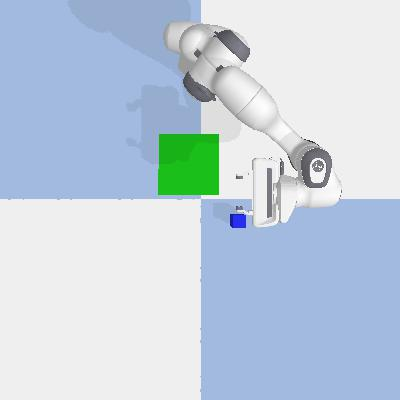
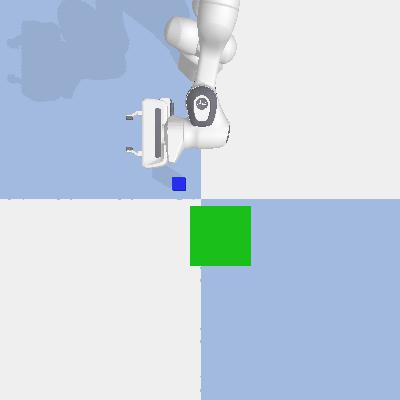
cleaned code and added demonstration mode

Changed region(s): [[0.3, 0.0, 0.84, 0.69], [0.57, 0.0, 0.6, 0.03]]

diff --git a/pybullet_hello/myRobotCell.py b/pybullet_hello/myRobotCell.py
@@ -50,6 +50,39 @@ def get_save_action_path(save_path, action):
     return save_path
 
 
+def set_dynamics_of_objects(list_ids):
+    for rigid_obj_id in list_ids:
+        p.changeDynamics(bodyUniqueId=rigid_obj_id,
+                         linkIndex=-1,
+                         mass=1.1,  # this mass works with the box_example.urdf but doesnt with other boxes
+                         lateralFriction=0.3,
+                         spinningFriction=0.003,
+                         rollingFriction=0.003,
+                         restitution=0.0,
+                         linearDamping=0.0,
+                         angularDamping=0.0,
+                         contactStiffness=-1,
+                         contactDamping=-1)
+    return None
+
+
+def set_fingertips_friction(body_id, link_indexes):
+
+    for finger_id in link_indexes:
+        p.changeDynamics(bodyUniqueId=body_id,
+                         linkIndex=finger_id,
+                         mass=1.1,  # this mass works with the box_example.urdf but doesnt with other boxes
+                         lateralFriction=sys.maxsize,
+                         spinningFriction=sys.maxsize,
+                         rollingFriction=sys.maxsize,
+                         restitution=0.0,
+                         linearDamping=0.0,
+                         angularDamping=0.0,
+                         contactStiffness=-1,
+                         contactDamping=-1)
+    return None
+
+
 class RobotCell:
     def __init__(self, grasp_loc, rel_loc, n_steps_taken, start_tcp_pos, dt=0.01):
 
@@ -61,28 +94,21 @@ class RobotCell:
         # TODO: load the table and make sure that cameras are in proper positions
         self.rel_loc = (rel_loc[0], rel_loc[1], 0.001)  # Place Location
         p.loadURDF("plane.urdf")
-        p.loadURDF(os.getcwd() + "/generated_urdfs/Rectangle.urdf", self.rel_loc,
+
+
+        self.mat_id = p.loadURDF(os.getcwd() + "/generated_urdfs/Rectangle.urdf", self.rel_loc,
                    p.getQuaternionFromEuler((0, 0, np.pi / 2)),
                    useFixedBase=False)
+
         self.cube_position = grasp_loc
         self.cube_id = p.loadURDF(os.getcwd()+"/generated_urdfs/box_example.urdf", self.cube_position, p.getQuaternionFromEuler((0, 0, 0)))
 
+        set_dynamics_of_objects([self.mat_id, self.cube_id])
 
         """
         different boxes have different behaviour
         maybe when we change shape of the box we should also change mass?
         """
-        p.changeDynamics(bodyUniqueId=self.cube_id,
-                         linkIndex=-1,
-                         mass=1.1,  # this mass works with the box_example.urdf but doesnt with other boxes
-                         lateralFriction=sys.maxsize,
-                         spinningFriction=sys.maxsize,
-                         rollingFriction=sys.maxsize,
-                         restitution=0.0,
-                         linearDamping=0.0,
-                         angularDamping=0.0,
-                         contactStiffness=sys.maxsize,
-                         contactDamping=sys.maxsize)
 
         self.n_actions_taken = n_steps_taken
         self.rid = p.loadURDF(
@@ -90,7 +116,9 @@ class RobotCell:
             (0, -0.55, 0), p.getQuaternionFromEuler((0, 0, np.pi / 2)),
             useFixedBase=True
         )
+        set_fingertips_friction(body_id=self.rid, link_indexes=[10, 11])
 
+        # self.q_target[-1] = self.q_target[-2]
         print("self.rid ", self.rid)
         print("p.getNumJoints(self.rid) ", p.getNumJoints(self.rid))
 
@@ -149,10 +177,9 @@ class RobotCell:
         )[2:]
         return img[..., :3]
 
-    def take_top_image(self, res=224, fov=8):
-        view_matrix = p.computeViewMatrix((0, 0, 2), (0, 0, 0), (0, -1, 0))
-        projection_matrix = p.computeProjectionMatrixFOV(fov, 1, 0.01, 10)
-        return self.take_image(res, view_matrix, projection_matrix)
+    def take_top_image(self):
+        return self.take_image(view_matrix=p.computeViewMatrix((0, 0, 2), (0, 0, 0), (0, -1, 0)),
+                                      projection_matrix=p.computeProjectionMatrixFOV(45, 1, 0.01, 10))
 
     def top_px_to_world(self, x, y, z=0.01, res=224, fov=8):
         depth = 2 - z
@@ -221,10 +248,10 @@ class RobotCell:
             if action == 'g':  # grasp
                 # pos_next = pos_now
                 # pos_next[2] = z_grasp
-                img_action = self.attempt_grasp(xy=(pos_now[0], pos_now[1]), theta=0, z_grasp=z_grasp, z_up=z_up, record=True, save=True)
+                img_action = self.attempt_grasp(xy=(pos_now[0], pos_now[1]), theta=0, z_grasp=z_grasp, z_up=z_up, save=True)
 
             if action == 'r':  # release
-                img_action = self.attempt_release(xy=(pos_now[0], pos_now[1]), theta=0, z_grasp=z_grasp, z_up=z_up, record=True, save=True)
+                img_action = self.attempt_release(xy=(pos_now[0], pos_now[1]), theta=0, z_grasp=z_grasp, z_up=z_up, save=True)
 
         self.n_actions_taken += 1
         return img_action
@@ -259,17 +286,17 @@ class RobotCell:
                 pos_next = pos_now + [-step_d, 0, 0]
                 pos_next[2] = z_up
             """ SAVE """
-            img_action = self.move(pos=np.array(pos_next), save=True)
+            img_action = self.move(pos=np.array(pos_next), save=False)
 
         """ Gripper actions """
         if action in gripper_actions:
             if action == 'g':  # grasp
                 # pos_next = pos_now
                 # pos_next[2] = z_grasp
-                img_action = self.attempt_grasp(xy=(pos_now[0], pos_now[1]), theta=0, z_grasp=z_grasp, z_up=z_up, record=True, save=True)
+                img_action = self.attempt_grasp(xy=(pos_now[0], pos_now[1]), theta=0, z_grasp=z_grasp, z_up=z_up, save=True)
 
             if action == 'r':  # release
-                img_action = self.attempt_release(xy=(pos_now[0], pos_now[1]), theta=0, z_grasp=z_grasp, z_up=z_up, record=True, save=True)
+                img_action = self.attempt_release(xy=(pos_now[0], pos_now[1]), theta=0, z_grasp=z_grasp, z_up=z_up, save=True)
 
         """ save image to dir """
         # import matplotlib
@@ -284,10 +311,9 @@ class RobotCell:
         # im.save("your_file.jpeg")
         self.n_actions_taken += 1
 
-    def move(self, pos, theta=0., speed=1.2, acc=5., instant=False, record=False, save=False):
+    def move(self, pos, theta=0., speed=1.2, acc=5., instant=False, save=False):
         # take image before executing an action!
-        img_start = self.take_image(view_matrix=p.computeViewMatrix((0, 0, 2), (0, 0, 0), (0, -1, 0)),
-                                  projection_matrix=p.computeProjectionMatrixFOV(45, 1, 0.01, 10))
+        img_start = self.take_top_image()
 
         world_t_tool_desired = Transform(p=pos, rpy=(0, np.pi / 2, 0 + theta))
         if instant:
@@ -301,72 +327,61 @@ class RobotCell:
                 world_t_tool_target = world_t_tool_start @ (tool_start_t_tool_desired * s)
                 self.set_q_target(self.ik(world_t_tool_target))
                 p.stepSimulation()
-                # if record and i % 4 == 0:  # fps = 1/dt / 4
-                #     img_start = self.take_image()
-                # #     # images.append(self.take_image())
+                if save and i % 4 == 0:  # fps = 1/dt / 4
+                    self.take_top_image()
+                    # img_start = self.take_image()
+                #     # images.append(self.take_image())
 
             if save:
                 return img_start
             else:
                 return None
 
-    def gripper_move(self, d_desired, record=False, speed=1., acc=3., save=False):
+    def gripper_move(self, d_desired, save=False, speed=1., acc=3.):
         d_start = self.q_target[-1]
         move = d_desired - d_start
-        images = []
-        states_l = []
         for i, s in enumerate(lerp(abs(move), speed, acc, self.dt)):
             self.q_target[-1] = self.q_target[-2] = d_start + s * move
             self.set_q_target(self.q_target)
             p.stepSimulation()
-            if record and i % 4 == 0:
-                images.append(self.take_image())
-                if save:
-                    cube_pos, cube_orn = p.getBasePositionAndOrientation(self.cube_id)
-                    states_l.append(
-                        State(qs=self.q_target, q_dots=None, cube_pos=cube_pos, cube_orient=cube_orn, keypoint=None))
+            if save and i % 4 == 0:
+                self.take_top_image()
+        return None
 
-        if save:
-            return states_l
-        else:
-            return None
+    def gripper_close(self, save=False):
+        return self.gripper_move(0.0, save)
 
-    def gripper_close(self, record=False, save=False):
-        return self.gripper_move(0.0, record, save=save)
+    def gripper_open(self, save=False):
+        return self.gripper_move(0.1, save)
 
-    def gripper_open(self, record=False, save=False):
-        return self.gripper_move(0.1, record, save=save)
-
-    def attempt_grasp(self, xy, z_grasp, z_up, theta=0, record=False, save=False):
-        # self.q_target[-1] = self.q_target[-2] = 0.03
-        self.gripper_open(record=record, save=False)
+    def attempt_grasp(self, xy, z_grasp, z_up, theta=0, save=False):
+        self.gripper_open(save=save)
 
         """ taking picture before an action """
         if save:
-            img_start = self.take_image(view_matrix=p.computeViewMatrix((0, 0, 2), (0, 0, 0), (0, -1, 0)),
-                                                 projection_matrix=p.computeProjectionMatrixFOV(45, 1, 0.01, 10))
-        self.gripper_open(record=record, save=False)
-        self.move((*xy, z_up), theta, record=record, save=False)
-        self.move((*xy, z_grasp), theta, record=record, save=False)
-        self.gripper_close(record=record, save=False)
-        self.move((*xy, z_up), theta, record=record, save=False)
+            img_start = self.take_top_image()
+
+        self.gripper_open(save=True)
+        self.move((*xy, z_up), theta, save=True)
+        self.move((*xy, z_grasp), theta, save=True)
+        self.gripper_close(save=True)
+        self.move((*xy, z_up), theta, save=True)
 
         if save:
             return img_start
         return None
 
-    def attempt_release(self, xy=(0, 0), theta=0, z_grasp=0.01, z_up=0.5, record=False, save=False):
-        self.q_target[-1] = self.q_target[-2] = 0.03
+    def attempt_release(self, xy=(0, 0), theta=0, z_grasp=0.01, z_up=0.5, save=False):
+        # self.q_target[-1] = self.q_target[-2] = 0.03
 
         """ taking picture before an action """
         if save:
-            img_start = self.take_image(view_matrix=p.computeViewMatrix((0, 0, 2), (0, 0, 0), (0, -1, 0)),
-                                        projection_matrix=p.computeProjectionMatrixFOV(45, 1, 0.01, 10))
+            img_start = self.take_top_image()
 
-        self.move((*xy, z_up), theta, record=record, save=False)
-        self.move((*xy, z_grasp), theta, record=record, save=False)
-        self.gripper_open(record=record, save=False)
-        self.move((*xy, z_up), theta, record=record, save=False)
+        self.move((*xy, z_up), theta, save=True)
+        self.move((*xy, z_grasp), theta, save=True)
+        self.gripper_open(save=True)
+        self.move((*xy, z_up), theta, save=True)
         """ taking picture after an action """
         if save:
             return img_start

diff --git a/pybullet_hello/robot_CNN_actions.py b/pybullet_hello/robot_CNN_actions.py
@@ -39,8 +39,7 @@ def move_robot_with_cnn():
         take_actions_no = 200
         for i in range(take_actions_no):
             # while True:
-            img_now = robot_cell.take_image(view_matrix=p.computeViewMatrix((0, 0, 2), (0, 0, 0), (0, -1, 0)),
-                                      projection_matrix=p.computeProjectionMatrixFOV(45, 1, 0.01, 10))
+            img_now = robot_cell.take_top_image()
             # plt.imshow(img_now)
 
             probs = Resnet.RUN(img_now, live=True).cpu()
@@ -80,7 +79,7 @@ def is_tcp_in_good_release(current_pos, release_loc):
     return False
 
 
-def performance_robot_with_cnn(do_gui, no_tries, model_name):
+def performance_robot_with_cnn(do_gui, no_tries, model_name, demonstrate=False):
     """ load the model of the CNN and """
     # load cnn module
     Resnet = CNN(False, model_name)
@@ -94,13 +93,17 @@ def performance_robot_with_cnn(do_gui, no_tries, model_name):
 
     for i in range(1, len(positions)):
         pick_position, release_loc = positions[i]
-        if do_gui:
+        if do_gui or demonstrate:
             physicsClient = p.connect(p.GUI)
         else:
             physicsClient = p.connect(p.DIRECT)
 
         robot_cell = RobotCell(pick_position, release_loc, n_steps_taken,
                                start_tcp_pos=start_tcp_pos)  # start simulation with robot & cube
+
+        # second_cube_pos = (robot_cell.cube_position[1]+0.2, robot_cell.cube_position[0]-0.2, 0)
+        # second_cube_id = p.loadURDF(os.getcwd()+"/generated_urdfs/box_example_2.urdf", second_cube_pos, p.getQuaternionFromEuler((0, 0, 0)))
+
         goal_achieved = False
         tried_grasping = False
         actions_taken = 0
@@ -108,8 +111,8 @@ def performance_robot_with_cnn(do_gui, no_tries, model_name):
         last_few_actions = []
         while not goal_achieved:
             # just take picture and then take action
-            img_now = robot_cell.take_image(view_matrix=p.computeViewMatrix((0, 0, 2), (0, 0, 0), (0, -1, 0)),
-                                      projection_matrix=p.computeProjectionMatrixFOV(45, 1, 0.01, 10))
+
+            img_now = robot_cell.take_top_image()
             # plt.imshow(img_now)
 
             probs = Resnet.RUN(img_now, live=True).cpu()
@@ -143,11 +146,12 @@ def performance_robot_with_cnn(do_gui, no_tries, model_name):
                 # check if the release was in the correct area - if yes then
                 current_pos = robot_cell.world_t_tool().p
                 if is_tcp_in_good_release(current_pos, release_loc):
-                    goal_achieved = True
-                    success_no += 1
-                    p.disconnect()
-                    time.sleep(2)
-                    # exit("testing")
+                    if not demonstrate:
+                        goal_achieved = True
+                        success_no += 1
+                        p.disconnect()
+                        time.sleep(2)
+                        # exit("testing")
 
             winrate = success_no / (i+1)
             print("model = %s | traj_no = %d out of %d <winrate = %f> | actions_taken = %d  last action=%s" %
@@ -156,9 +160,10 @@ def performance_robot_with_cnn(do_gui, no_tries, model_name):
 
             if actions_taken >= 80 and not tried_grasping or detected_stuck_on_grasp or actions_taken >= 150:
                 print("robot stuck - didnt achieve the goal")
-                goal_achieved = True
-                p.disconnect()
-                time.sleep(2)
+                if not demonstrate:
+                    goal_achieved = True
+                    p.disconnect()
+                    time.sleep(2)
 
         # print("========== try=%d winrate = %f  ==========" % (i, winrate))
     return winrate
@@ -185,7 +190,7 @@ if __name__ == "__main__":
     )
 
     for model in model_names:
-        winrate = performance_robot_with_cnn(do_gui=False, no_tries=no_tries, model_name=model)
+        winrate = performance_robot_with_cnn(do_gui=True, no_tries=no_tries, model_name=model, demonstrate=True)
         # performance_robot_with_cnn(do_gui=False, no_tries=100, model_name=model_names[0])
         results_now = {"model": model, "no_tries": no_tries, "winrate": winrate}
         performance_l.append(results_now)
